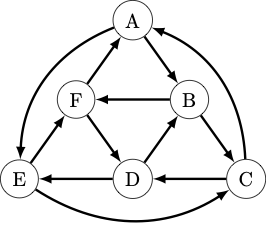
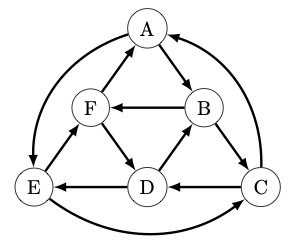
Refactoring and a diagram for the interesting five-dice set

Changed region(s): [[0.0, 0.0, 1.0, 0.9655], [0.9624, 0.8147, 0.9925, 0.8448]]

diff --git a/sat_search_pair_max.py b/sat_search_pair_max.py
@@ -13,22 +13,20 @@ from clauses import build_cardinality_clauses, build_converse_clauses
 from clauses import build_lower_bound_clauses, build_upper_bound_clauses
 from clauses import build_sorting_clauses, build_symmetry_clauses
 from clauses import build_transitivity_clauses
-from clauses import build_doubling_clauses
+from clauses import build_max_doubling_clauses
 
 # ============================================================================
 # Three-dice sets with max-pool reversing
 # ============================================================================
 dice_names = ["A", "B", "C"]
-doubled_dice_names = [die_name * 2 for die_name in dice_names]
 m = len(dice_names)
 
 dice_pairs = list(permutations(dice_names, 2))
-doubled_dice_pairs = list(permutations(doubled_dice_names, 2))
 n = len(dice_pairs)
 
-d = 12
+d = 6
 
-singled_score = 3 + d ** 2 // 2 + 1  # 5
+singled_score = d ** 2 // 2 + 1  # 5
 
 scores = {
     ("A", "B"): singled_score,
@@ -36,7 +34,7 @@ scores = {
     ("C", "A"): singled_score,
 }
 
-doubled_score = 10320  # d ** 4 // 2
+doubled_score = d ** 4 // 2
 doubled_scores = {
     ("A", "B"): doubled_score,
     ("C", "A"): doubled_score,
@@ -73,31 +71,13 @@ for x, y in permutations(dice_names, 2):
             doubled_key = ((f[x][i], f[x][i]), (f[y][j], f[y][j]))
             singleton_var_dict[key] = var_dict[doubled_key]
 
-double_var_lists = {}
-for x, y in permutations(dice_names, 2):
-    dfx = sorted(df[x], key=lambda v: max(v))
-    dfy = sorted(df[y], key=lambda v: max(v))
-    double_var_lists[x, y] = list(product(dfx, dfy))
-
-df_sorted = {k: sorted(df[k], key=lambda v: max(v)) for k in df}
 
 vpool = pysat.formula.IDPool(start_from=n * (d ** 4) + 1)
 
-# If you build the cardinality clauses for the singled dice first,
-# then we fail to find known solutions.
-# I think that this has something to do with the extra variables that get
-# added for the pseudo-Boolean constraints.
 clauses = []
-
 # clauses += build_cardinality_clauses(d ** 2, var_dict, var_lists, doubled_scores, vpool)
 clauses += build_upper_bound_clauses(d ** 2, var_dict, var_lists, doubled_scores, vpool)
-
-# clauses += build_converse_clauses(d ** 2, var_dict, dice_names)
-# clauses += build_sorting_clauses(d ** 2, var_dict, df_sorted)
-# clauses += build_transitivity_clauses(d ** 2, var_dict, df_sorted)
-
-clauses += build_doubling_clauses(d, var_dict, dice_names)
-
+clauses += build_max_doubling_clauses(d, var_dict, dice_names)
 
 # clauses += build_cardinality_clauses(
 #     d, singleton_var_dict, singleton_var_lists, scores, vpool
@@ -106,9 +86,9 @@ clauses += build_lower_bound_clauses(
     d, singleton_var_dict, singleton_var_lists, scores, vpool
 )
 
-clauses += build_converse_clauses(d, singleton_var_dict, dice_names)  # , vpool)
+clauses += build_converse_clauses(d, singleton_var_dict, dice_names)
 clauses += build_sorting_clauses(d, singleton_var_dict, f)
-clauses += build_transitivity_clauses(d, singleton_var_dict, f)  # dice_names)
+clauses += build_transitivity_clauses(d, singleton_var_dict, f)
 
 clauses += build_symmetry_clauses(d, singleton_var_dict, dice_names)
 
@@ -120,21 +100,12 @@ is_solvable = sat.solve()
 print(is_solvable)
 
 if is_solvable:
-    sat_solution = np.array(sat.get_model())
+    model = np.array(sat.get_model())
 
     temp = sum([list(product(f[x], f[y])) for (x, y) in dice_pairs], [])
-    singled_sat_solution = np.array(
-        [sat_solution[singleton_var_dict[t] - 1] for t in temp]
-    )
-
-    constraints = sat_to_constraints(d, dice_names, singled_sat_solution)
-    for x, y in dice_pairs:
-        print(
-            (x, y),
-            np.all(constraints[(x, y)].transpose() ^ True == constraints[(y, x)]),
-        )
-
-    dice_solution = sat_to_dice(d, dice_names, singled_sat_solution)
+    var_indices = [model[singleton_var_dict[t] - 1] for t in temp]
+    sat_solution = np.array(var_indices)
+    dice_solution = sat_to_dice(d, dice_names, sat_solution)
     print(dice_solution)
 
     verify_doubling_solution(scores, doubled_scores, dice_solution)

diff --git a/utils.py b/utils.py
@@ -31,7 +31,7 @@ def recover_values(d, dice_names, constraints):
     return natural_faces
 
 
-def collapse_values(*args):
+def compress_values(*args):
     T = {}
     for i, die in enumerate(args):
         T.update({k: i for k in die})
@@ -39,27 +39,33 @@ def collapse_values(*args):
     T_list = [T[i] for i in range(n)]
     current_value = 0
     current_die = T_list[0]
-    collapsed_dice = [[] for _ in args]
-    collapsed_dice[current_die].append(current_value)
+    compressed_dice = [[] for _ in args]
+    compressed_dice[current_die].append(current_value)
     for i in range(1, n):
         previous_die = current_die
         current_die = T_list[i]
         if current_die != previous_die:
             current_value += 1
-        collapsed_dice[current_die].append(current_value)
-    return collapsed_dice
+        compressed_dice[current_die].append(current_value)
+    return compressed_dice
 
 
-def sat_to_dice(d, dice_names, sat_solution, compress=True):
+def sat_to_constraints(d, dice_names, sat_solution, compress=True):
     dice_pairs = list(permutations(dice_names, 2))
     n = len(dice_pairs)
 
     signs_array = (sat_solution[: (n * d ** 2)] > 0).reshape((n, d, d))
     constraints = {v: s for v, s in zip(dice_pairs, signs_array)}
 
+    return constraints
+
+
+def sat_to_dice(d, dice_names, sat_solution, compress=True):
+    constraints = sat_to_constraints(d, dice_names, sat_solution)
+
     natural_faces = recover_values(d, dice_names, constraints)
     if compress:
-        dice_faces = collapse_values(*natural_faces)
+        dice_faces = compress_values(*natural_faces)
         dice_dict = {k: v for k, v in zip(dice_names, dice_faces)}
     else:
         dice_dict = {k: v for k, v in zip(dice_names, natural_faces)}
@@ -75,7 +81,7 @@ def verify_solution(scores, dice_solution):
 def verify_doubling_solution(scores, doubled_scores, dice_solution):
     verify_solution(scores, dice_solution)
     print()
-    for x, y in scores:
+    for x, y in doubled_scores:
         check = compare_doubled_dice(dice_solution[x], dice_solution[y])
         print((x, y), check, doubled_scores[(x, y)])
 

diff --git a/Diagrams/six_dice_diagram.tex b/Diagrams/six_dice_diagram.tex
@@ -1,11 +1,13 @@
 \documentclass{standalone}
 
 \usepackage{tikz}
+\usetikzlibrary{shapes}
 \usetikzlibrary{arrows.meta}
 
 \begin{document}
 
 	\begin{tikzpicture}
+		\path (-2.5, 0.5) -- (2.5, 0.5) -- (2.6, -3.5) -- (-2.6, -3.5) -- cycle;
 		\node[draw, circle]  (A) at (0,0) {A};
 		\node[draw, circle]  (B) at (1,-1.4) {B};
 		\node[draw, circle]  (C) at (2,-2.8) {C};
@@ -19,11 +21,11 @@
 		\draw[very thick,  -latex] (E) to (F);
 		\draw[very thick,  -latex] (F) to (A);
 
-		\draw[very thick,  -latex] (A) to [bend right=33.75] (E);
+		\draw[very thick,  -latex] (A) to [bend right=37.5] (E);
 		\draw[very thick,  -latex] (B) to (F);
-		\draw[very thick,  -latex] (C) to [bend right=33.75]  (A);
+		\draw[very thick,  -latex] (C) to [bend right=37.5]  (A);
 		\draw[very thick,  -latex] (D) to (B);
-		\draw[very thick,  -latex] (E) to [bend right=33.75]  (C);
+		\draw[very thick,  -latex] (E) to [bend right=37.5]  (C);
 		\draw[very thick,  -latex] (F) to (D);
 
 	\end{tikzpicture}

diff --git a/Diagrams/five_dice_diagram.tex b/Diagrams/five_dice_diagram.tex
@@ -1,0 +1,30 @@
+\documentclass{standalone}
+
+\usepackage{tikz}
+\usetikzlibrary{arrows.meta}
+
+\begin{document}
+
+	\begin{tikzpicture}
+		\path (-2.45, -2.15) -- (-2.45, 2.55) -- (2.45, 2.55) -- (2.45, -2.15) -- cycle;
+		\node[draw, circle]  (A) at (90:2) {A};
+		\node[draw, circle]  (B) at (18:2) {B};
+		\node[draw, circle]  (C) at (306:2) {C};
+		\node[draw, circle]  (D) at (234:2) {D};
+		\node[draw, circle]  (E) at (162:2) {E};
+		\draw[very thick,  -latex] (A) to (B);
+		\draw[very thick,  -latex] (B) to (C);
+		\draw[very thick,  -latex] (C) to (D);
+		\draw[very thick,  -latex] (D) to (E);
+		\draw[very thick,  -latex] (E) to (A);
+		
+		\draw[very thick, dashed, -latex] (A) to (C);
+		\draw[very thick, dashed, -latex] (B) to (D);
+		\draw[very thick, dashed, -latex] (C) to (E);
+		\draw[very thick, dashed, -latex] (D) to (A);
+		\draw[very thick, dashed, -latex] (E) to (B);
+		
+
+	\end{tikzpicture}
+
+\end{document}

diff --git a/clauses.py b/clauses.py
@@ -156,7 +156,7 @@ def build_symmetry_clauses(d, var_dict, dice_names):
     return symmetry_clauses
 
 
-def build_doubling_clauses(d, var_dict, dice_names):
+def build_max_doubling_clauses(d, var_dict, dice_names):
     f = {x: ["%s%i" % (x, i) for i in range(1, d + 1)] for x in dice_names}
     doubling_clauses = []
     for x, y in permutations(dice_names, 2):

diff --git a/README.md b/README.md
@@ -102,6 +102,11 @@ The following table describes the probability that the die in each row beats the
 | **D** | 5/9 | 4/9 | 3/9 |  x  | 6/9 |
 | **E** | 6/9 | 5/9 | 4/9 | 3/9 |  x  |
 
+We can represent these relationships in a diagram with two different edge weights.  Here a solid arrow from X to Y indicates that P{X > Y} = 2/3 while a dashed arrow from X to Y indicates that P{X > Y} = 5/9.
+
+![Five Dice Diagram](./Diagrams/five_dice_diagram.png)
+
+
 ## Interesting Six-Dice Sets
 The most interesting set of six dice that I've found is:
 |       | i   | ii  | iii | iv  | v   | vi  |
@@ -123,7 +128,7 @@ Notice that:
 In particular, these dice have the property that for all X,Y,Z such that
 X -> Y -> Z, we have Z -> X.
 
-If we suppress edges between dice that are evenly matched, then we can diagram these relationships as a set of eight interlocking three-dice sets, (A,B,C), (B,C,D), (C,D,E), (D,E,F), (E,F,A), (F,A,B), (A,E,C), and (B,F,D).
+If we suppress edges between dice that are evenly matched, then we can represent these relationships with a diagram with eight interlocking three-dice sets, (A,B,C), (B,C,D), (C,D,E), (D,E,F), (E,F,A), (F,A,B), (A,E,C), and (B,F,D).
 
 ![Six Dice Diagram](./Diagrams/six_dice_diagram.png)
 
